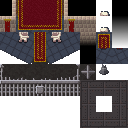
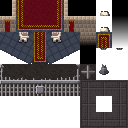
v4.0.0: made use of custom terrain in various places where appropriate

Changed region(s): [[0.75, 0.375, 1.0, 0.5]]

diff --git a/core/src/main/java/com/shatteredpixel/shatteredpixeldungeon/levels/CityBossLevel.java b/core/src/main/java/com/shatteredpixel/shatteredpixeldungeon/levels/CityBossLevel.java
@@ -42,6 +42,7 @@ import com.shatteredpixel.shatteredpixeldungeon.tiles.CustomTilemap;
 import com.shatteredpixel.shatteredpixeldungeon.ui.BossHealthBar;
 import com.watabou.noosa.Game;
 import com.watabou.noosa.Group;
+import com.watabou.noosa.Image;
 import com.watabou.noosa.Tilemap;
 import com.watabou.noosa.audio.Music;
 import com.watabou.noosa.tweeners.AlphaTweener;
@@ -216,6 +217,10 @@ public class CityBossLevel extends Level {
 		CustomTilemap customVisuals = new CustomGroundVisuals();
 		customVisuals.setRect(0, 0, width(), height());
 		customTiles.add(customVisuals);
+
+		customVisuals = new CustomTerrainVisuals();
+		customVisuals.setRect(0, 0, width(), height());
+		customTerrain.add(customVisuals);
 
 		customVisuals = new CustomWallVisuals();
 		customVisuals.setRect(0, 0, width(), height());
@@ -600,12 +605,6 @@ public class CityBossLevel extends Level {
 						data[i] = 14*8 + 0;
 					}
 
-				//banners along walls
-				} else if (i < tileW*32 && map[i] == Terrain.WALL_DECO && map[i+tileW] != Terrain.WALL) {
-					data[i] = 6*8 + 7;
-				} else if (i < tileW*32 && (map[i] == Terrain.EMPTY || map[i] == Terrain.EMPTY_DECO) && map[i-tileW] == Terrain.WALL_DECO) {
-					data[i] = 7*8 + 7;
-
 				//otherwise no tile here
 				} else {
 
@@ -675,6 +674,82 @@ public class CityBossLevel extends Level {
 			}
 
 			return super.desc(tileX, tileY);
+		}
+	}
+
+	public static class CustomTerrainVisuals extends CustomTilemap {
+
+		{
+			texture = Assets.Environment.CITY_BOSS;
+			tileW = 15;
+			tileH = 48;
+		}
+
+		@Override
+		public Tilemap create() {
+			Tilemap v = super.create();
+			int[] data = new int[tileW*tileH];
+			int[] map = Dungeon.level.map;
+
+			//upper part of the level, skull statues
+			for (int i = tileW; i < tileW*22; i++){
+				if (map[i] == Terrain.STATUE) {
+					data[i] = 15*8 + 5;
+				} else {
+					data[i] = -1;
+				}
+			}
+
+			//lower part: statues and banners
+			for (int i = tileW*22; i < tileW * tileH; i++){
+
+				if (map[i] == Terrain.STATUE) {
+
+					//throne statues
+					if (i < tileW*32){
+						//facing left
+						if (i%tileW > 7) {
+							data[i] = 10 * 8 + 7;
+
+							i++;
+							data[i] = 11 * 8 + 7;
+
+						} else {
+							data[i] = 8 * 8 + 7;
+							i++;
+							data[i] = 9 * 8 + 7;
+						}
+					} else {
+
+						//regular statues facing left
+						if (i % tileW > 7) {
+							data[i] = 15 * 8 + 4;
+						} else {
+							data[i] = -1;
+						}
+
+					}
+
+				//banners along walls
+				} else if (i < tileW*32 && map[i] == Terrain.WALL_DECO && map[i+tileW] != Terrain.WALL) {
+					data[i] = 6*8 + 7;
+				} else if (i < tileW*32 && (map[i] == Terrain.EMPTY || map[i] == Terrain.EMPTY_DECO) && map[i-tileW] == Terrain.WALL_DECO) {
+					data[i] = 7*8 + 7;
+
+				//otherwise no tile here
+				} else {
+
+					data[i] = -1;
+				}
+			}
+
+			v.map( data, tileW );
+			return v;
+		}
+
+		@Override
+		public Image image(int tileX, int tileY) {
+			return null;
 		}
 	}
 

diff --git a/core/src/main/java/com/shatteredpixel/shatteredpixeldungeon/levels/CavesBossLevel.java b/core/src/main/java/com/shatteredpixel/shatteredpixeldungeon/levels/CavesBossLevel.java
@@ -166,6 +166,10 @@ public class CavesBossLevel extends Level {
 		customVisuals.setRect(0, 0, width(), 11);
 		customTiles.add(customVisuals);
 
+		customVisuals = new EntranceTerrain();
+		customVisuals.setRect(WIDTH/2-2, 0, 5, 11);
+		customTerrain.add(customVisuals);
+
 		customVisuals = new EntranceOverhang();
 		customVisuals.setRect(0, 0, width(), 11);
 		customWalls.add(customVisuals);
@@ -655,7 +659,7 @@ public class CavesBossLevel extends Level {
 				-1,  7,  7,  7, -1,
 				-1,  1,  2,  3, -1,
 				 8,  1,  2,  3, 12,
-				30,  9, 10, 11, 31,
+				16,  9, 10, 11, 20,
 				16, 16, 22, 20, 20,
 				16, 17, 18, 19, 20,
 				16, 16, 18, 20, 20,
@@ -701,6 +705,45 @@ public class CavesBossLevel extends Level {
 			return v;
 		}
 
+	}
+
+	public static class EntranceTerrain extends CustomTilemap {
+
+		{
+			texture = Assets.Environment.CAVES_BOSS;
+		}
+
+		private static short[] entryWay = new short[]{
+				-1, -1, -1, -1, -1,
+				-1, -1, -1, -1, -1,
+				8,  -1, -1, -1, 12,
+				30, -1, -1, -1, 31,
+				-1, -1, -1, -1, -1,
+				-1, 17, -1, 19, -1,
+				-1, -1, -1, -1, -1,
+				-1, 17, -1, 19, -1,
+				-1, -1, -1, -1, -1,
+				-1, 17, -1, 19, -1,
+				-1, -1, -1, -1, -1
+		};
+
+		@Override
+		public Tilemap create() {
+			Tilemap v = super.create();
+			int[] data = new int[tileW*tileH];
+			int entryPos = 0;
+			for (int i = 0; i < data.length; i++){
+				data[i] = entryWay[entryPos++];
+			}
+
+			v.map( data, tileW );
+			return v;
+		}
+
+		@Override
+		public Image image(int tileX, int tileY) {
+			return null;
+		}
 	}
 
 	public static class EntranceOverhang extends CustomTilemap{

diff --git a/core/src/main/java/com/shatteredpixel/shatteredpixeldungeon/windows/WndInfoCell.java b/core/src/main/java/com/shatteredpixel/shatteredpixeldungeon/windows/WndInfoCell.java
@@ -58,6 +58,16 @@ public class WndInfoCell extends Window {
 				}
 			}
 		}
+		if (customImage == null){
+			for (CustomTilemap i : Dungeon.level.customTerrain){
+				if ((x >= i.tileX && x < i.tileX+i.tileW) &&
+						(y >= i.tileY && y < i.tileY+i.tileH)){
+					if (i.image(x - i.tileX, y - i.tileY) != null) {
+						customImage = i.image(x - i.tileX, y - i.tileY);
+					}
+				}
+			}
+		}
 
 		if (customImage != null){
 			return customImage;
@@ -86,6 +96,16 @@ public class WndInfoCell extends Window {
 				}
 			}
 		}
+		if (customTile == null){
+			for (CustomTilemap i : Dungeon.level.customTerrain){
+				if ((x >= i.tileX && x < i.tileX+i.tileW) &&
+						(y >= i.tileY && y < i.tileY+i.tileH)){
+					if (i.image(x - i.tileX, y - i.tileY) != null) {
+						customTile = i;
+					}
+				}
+			}
+		}
 		if (customTile != null){
 			x -= customTile.tileX;
 			y -= customTile.tileY;
@@ -110,6 +130,16 @@ public class WndInfoCell extends Window {
 					(y >= i.tileY && y < i.tileY+i.tileH)){
 				if (i.image(x - i.tileX, y - i.tileY) != null) {
 					customTile = i;
+				}
+			}
+		}
+		if (customTile == null){
+			for (CustomTilemap i : Dungeon.level.customTerrain){
+				if ((x >= i.tileX && x < i.tileX+i.tileW) &&
+						(y >= i.tileY && y < i.tileY+i.tileH)){
+					if (i.image(x - i.tileX, y - i.tileY) != null) {
+						customTile = i;
+					}
 				}
 			}
 		}

diff --git a/core/src/main/java/com/shatteredpixel/shatteredpixeldungeon/tiles/TerrainFeaturesTilemap.java b/core/src/main/java/com/shatteredpixel/shatteredpixeldungeon/tiles/TerrainFeaturesTilemap.java
@@ -23,8 +23,6 @@ package com.shatteredpixel.shatteredpixeldungeon.tiles;
 
 import com.shatteredpixel.shatteredpixeldungeon.Assets;
 import com.shatteredpixel.shatteredpixeldungeon.Dungeon;
-import com.shatteredpixel.shatteredpixeldungeon.levels.CavesBossLevel;
-import com.shatteredpixel.shatteredpixeldungeon.levels.CityBossLevel;
 import com.shatteredpixel.shatteredpixeldungeon.levels.LastShopLevel;
 import com.shatteredpixel.shatteredpixeldungeon.levels.Terrain;
 import com.shatteredpixel.shatteredpixeldungeon.levels.traps.Trap;
@@ -96,9 +94,6 @@ public class TerrainFeaturesTilemap extends DungeonTilemap {
 			return 135 + 16*stage;
 
 		} else if (tile == Terrain.STATUE || tile == Terrain.STATUE_SP) {
-			if (Dungeon.level instanceof CavesBossLevel || Dungeon.level instanceof CityBossLevel){
-				return -1; //statues get overriden here and are never near walls, so just skip
-			}
 			return 136 + 16*stage;
 
 		} else if (tile == Terrain.REGION_DECO) {

diff --git a/core/src/main/java/com/shatteredpixel/shatteredpixeldungeon/scenes/GameScene.java b/core/src/main/java/com/shatteredpixel/shatteredpixeldungeon/scenes/GameScene.java
@@ -291,12 +291,12 @@ public class GameScene extends PixelScene {
 
 		terrainFeatures = new TerrainFeaturesTilemap(Dungeon.level.plants, Dungeon.level.traps);
 		terrain.add(terrainFeatures);
-		
-		levelVisuals = Dungeon.level.addVisuals();
-		add(levelVisuals);
 
 		customTerrain = new Group();
-		add(customTerrain);
+		terrain.add(customTerrain);
+
+		levelVisuals = Dungeon.level.addVisuals();
+		add(levelVisuals);
 
 		floorEmitters = new Group();
 		add(floorEmitters);

diff --git a/core/src/main/java/com/shatteredpixel/shatteredpixeldungeon/levels/rooms/quest/RitualSiteRoom.java b/core/src/main/java/com/shatteredpixel/shatteredpixeldungeon/levels/rooms/quest/RitualSiteRoom.java
@@ -98,7 +98,7 @@ public class RitualSiteRoom extends StandardRoom {
 				Table table = new Table();
 				Painter.drawInside(level, this, topRow, 2, Terrain.CUSTOM_DECO);
 				table.pos(topRow.x, topRow.y + 1);
-				level.customTiles.add(table); //probably want this to be raised after fixing that
+				level.customTerrain.add(table);
 			}
 			cageRow--;
 		}

diff --git a/core/src/main/java/com/shatteredpixel/shatteredpixeldungeon/levels/rooms/quest/vault/VaultEntranceRoom.java b/core/src/main/java/com/shatteredpixel/shatteredpixeldungeon/levels/rooms/quest/vault/VaultEntranceRoom.java
@@ -82,7 +82,7 @@ public class VaultEntranceRoom extends VaultRoom {
 
 		AmbitiousImpRoom.WallBanners vis2 = new AmbitiousImpRoom.WallBanners();
 		vis2.pos(left+2, top+1);
-		level.customTiles.add(vis2);
+		level.customTerrain.add(vis2);
 
 		ArrayList<Point> pedestalCandidates = new ArrayList<>();
 		pedestalCandidates.add(new Point(left+2, c.y));

diff --git a/core/src/main/java/com/shatteredpixel/shatteredpixeldungeon/levels/rooms/quest/AmbitiousImpRoom.java b/core/src/main/java/com/shatteredpixel/shatteredpixeldungeon/levels/rooms/quest/AmbitiousImpRoom.java
@@ -103,7 +103,7 @@ public class AmbitiousImpRoom extends SpecialRoom {
 
 		WallBanners vis3 = new WallBanners();
 		vis3.pos(left+1, top);
-		level.customTiles.add(vis3);
+		level.customTerrain.add(vis3);
 
 		int entrancePos = level.pointToCell(c);
 
